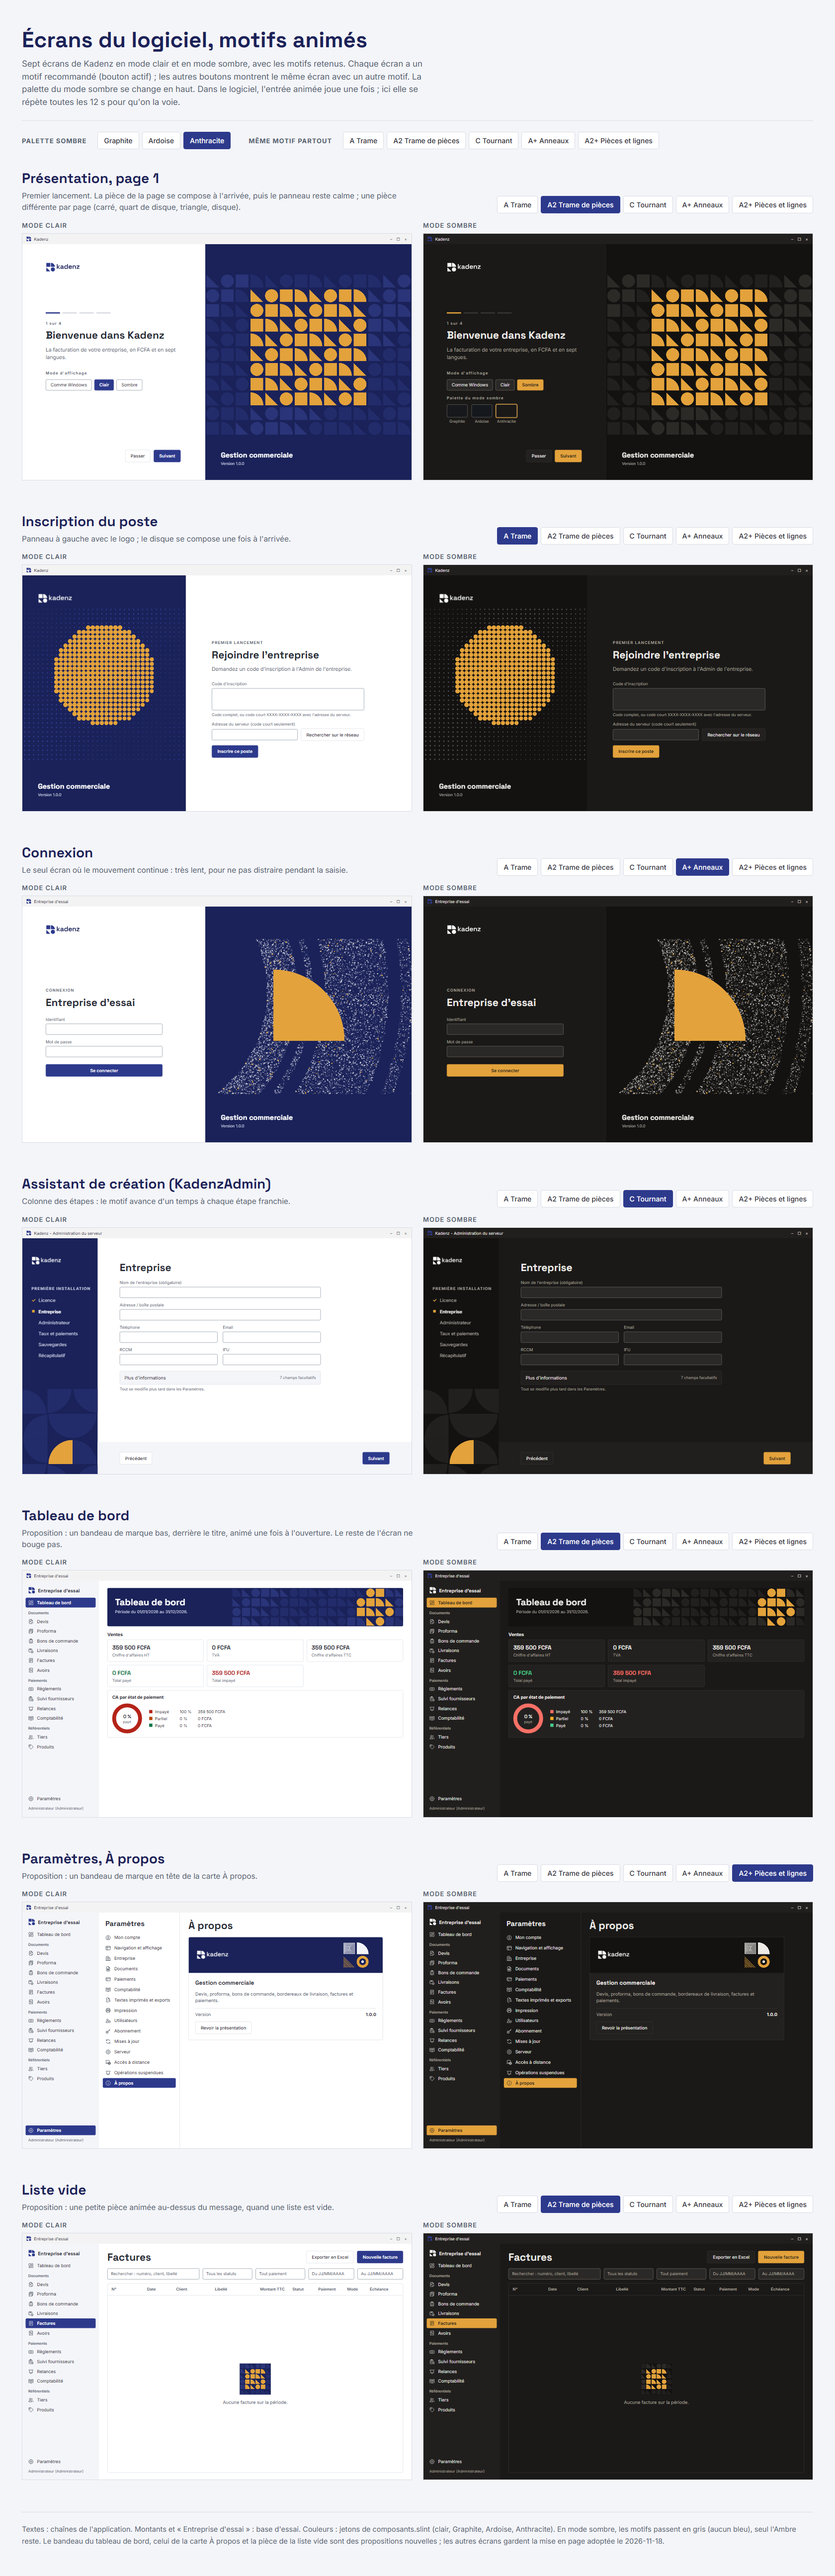
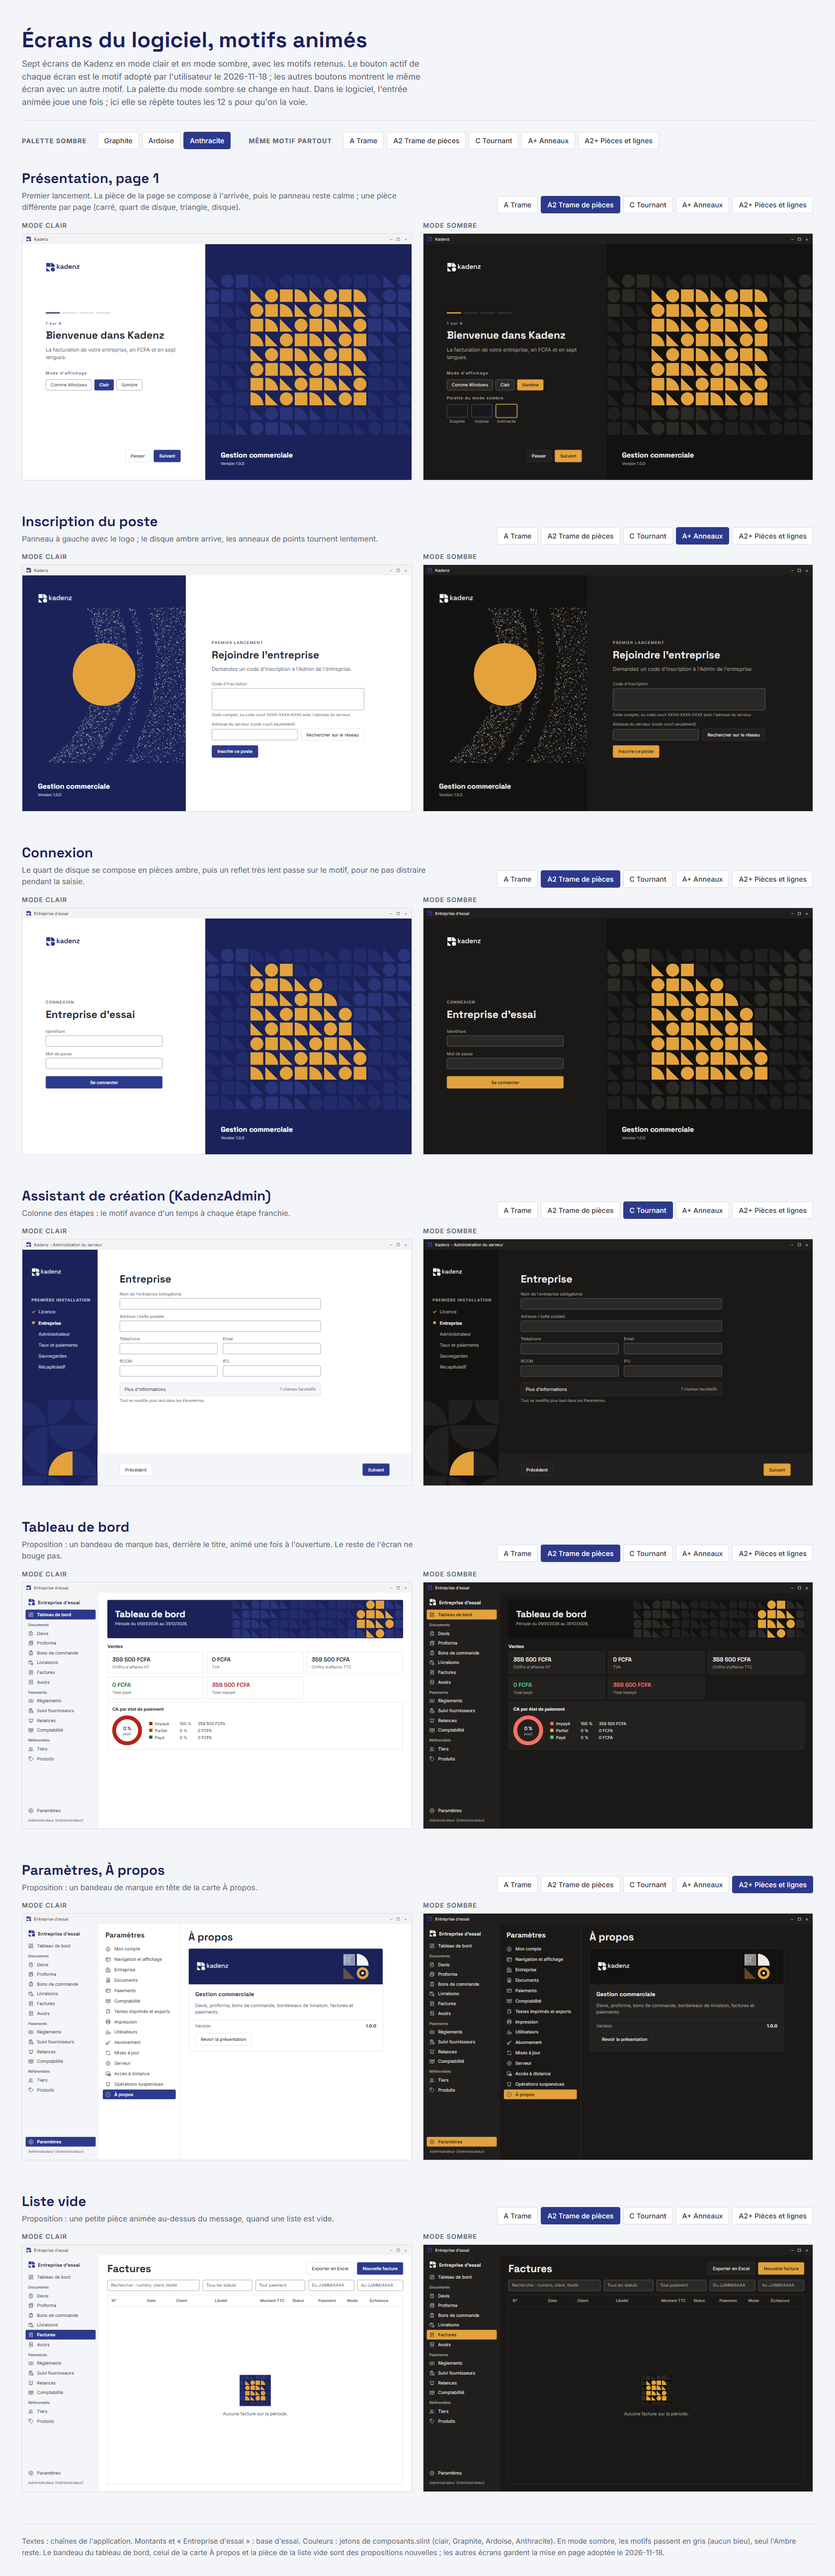
Marque : design des écrans animés adopté
Présentation A2, inscription A+, connexion A2, assistant C, bandeaux A2 et
A2+ au tableau de bord et dans À propos, pièce A2 des listes vides, palette
sombre Anthracite. A+, A2+ et C+ gardés à côté de A, A2 et C.

diff --git a/docs/marque/propositions-2026-11-18-ecrans-animes/index.html b/docs/marque/propositions-2026-11-18-ecrans-animes/index.html
@@ -146,8 +146,8 @@ body[data-palette="2"] .m.sombre { --fond:#1a1918; --lateral:#211f1e; --surface:
 </style></head>
 <body data-palette="2">
 <div class="entete"><div><h1>Écrans du logiciel, motifs animés</h1>
-<p>Sept écrans de Kadenz en mode clair et en mode sombre, avec les motifs retenus. Chaque écran a un motif
-recommandé (bouton actif) ; les autres boutons montrent le même écran avec un autre motif. La palette du mode
+<p>Sept écrans de Kadenz en mode clair et en mode sombre, avec les motifs retenus. Le bouton actif de chaque
+écran est le motif adopté par l'utilisateur le 2026-11-18 ; les autres boutons montrent le même écran avec un autre motif. La palette du mode
 sombre se change en haut. Dans le logiciel, l'entrée animée joue une fois ; ici elle se répète toutes les 12 s
 pour qu'on la voie.</p></div></div>
 <div class="reglages"><b>Palette sombre</b><span class="choix"><button data-palette-choix="0">Graphite</button><button data-palette-choix="1">Ardoise</button><button data-palette-choix="2" class="on">Anthracite</button></span>
@@ -183,8 +183,8 @@ pour qu'on la voie.</p></div></div>
 </div>
 <div class="boutons"><span class="btn">Passer</span><span class="btn prim">Suivant</span></div>
 </div><div class="panneau"><canvas data-piece="carre" data-cadre="panneau"></canvas>
-<div class="pied-panneau"><b>Gestion commerciale</b><small>Version 1.0.0</small></div></div></div></div></div></div></figure></div></section><section class="ecran" data-ecran="inscription"><header><div><h2>Inscription du poste</h2><p>Panneau à gauche avec le logo ; le disque se compose une fois à l'arrivée.</p></div>
-<div class="choix"><button data-motif-choix="A" class="on">A Trame</button><button data-motif-choix="A2" class="">A2 Trame de pièces</button><button data-motif-choix="C" class="">C Tournant</button><button data-motif-choix="A+" class="">A+ Anneaux</button><button data-motif-choix="A2+" class="">A2+ Pièces et lignes</button></div></header>
+<div class="pied-panneau"><b>Gestion commerciale</b><small>Version 1.0.0</small></div></div></div></div></div></div></figure></div></section><section class="ecran" data-ecran="inscription"><header><div><h2>Inscription du poste</h2><p>Panneau à gauche avec le logo ; le disque ambre arrive, les anneaux de points tournent lentement.</p></div>
+<div class="choix"><button data-motif-choix="A" class="">A Trame</button><button data-motif-choix="A2" class="">A2 Trame de pièces</button><button data-motif-choix="C" class="">C Tournant</button><button data-motif-choix="A+" class="on">A+ Anneaux</button><button data-motif-choix="A2+" class="">A2+ Pièces et lignes</button></div></header>
 <div class="duo"><figure><figcaption>Mode clair</figcaption><div class="cadre"><div class="m clair "><div class="barre"><img class="mini" data-logo="sym"><span>Kadenz</span>
 <b class="ctl">&#8211;&#160;&#160;&#9633;&#160;&#160;&#215;</b></div><div class="corps"><div class="rang"><div class="panneau etroit"><img class="logo-panneau" data-logo="logoN"><canvas data-piece="disque" data-cadre="panneau"></canvas>
 <div class="pied-panneau"><b>Gestion commerciale</b><small>Version 1.0.0</small></div></div>
@@ -208,8 +208,8 @@ pour qu'on la voie.</p></div></div>
   <label>Adresse du serveur (code court seulement)</label>
   <div class="ligne"><div class="champ"></div><span class="btn">Rechercher sur le réseau</span></div>
   <span class="btn prim" style="margin-top:14px;align-self:flex-start">Inscrire ce poste</span>
-</div></div></div></div></div></div></figure></div></section><section class="ecran" data-ecran="connexion"><header><div><h2>Connexion</h2><p>Le seul écran où le mouvement continue : très lent, pour ne pas distraire pendant la saisie.</p></div>
-<div class="choix"><button data-motif-choix="A" class="">A Trame</button><button data-motif-choix="A2" class="">A2 Trame de pièces</button><button data-motif-choix="C" class="">C Tournant</button><button data-motif-choix="A+" class="on">A+ Anneaux</button><button data-motif-choix="A2+" class="">A2+ Pièces et lignes</button></div></header>
+</div></div></div></div></div></div></figure></div></section><section class="ecran" data-ecran="connexion"><header><div><h2>Connexion</h2><p>Le quart de disque se compose en pièces ambre, puis un reflet très lent passe sur le motif, pour ne pas distraire pendant la saisie.</p></div>
+<div class="choix"><button data-motif-choix="A" class="">A Trame</button><button data-motif-choix="A2" class="on">A2 Trame de pièces</button><button data-motif-choix="C" class="">C Tournant</button><button data-motif-choix="A+" class="">A+ Anneaux</button><button data-motif-choix="A2+" class="">A2+ Pièces et lignes</button></div></header>
 <div class="duo"><figure><figcaption>Mode clair</figcaption><div class="cadre"><div class="m clair "><div class="barre"><img class="mini" data-logo="sym"><span>Entreprise d'essai</span>
 <b class="ctl">&#8211;&#160;&#160;&#9633;&#160;&#160;&#215;</b></div><div class="corps"><div class="rang"><div class="col-form">
 <img class="logo-col" data-logo="auto">
@@ -319,7 +319,7 @@ des propositions nouvelles ; les autres écrans gardent la mise en page adoptée
 <script>
[2 lines of base64/hex data omitted]
-const DEFAUTS = {"presentation": "A2", "inscription": "A", "connexion": "A+", "assistant": "C", "tableau": "A2", "apropos": "A2+", "vide": "A2"};
+const DEFAUTS = {"presentation": "A2", "inscription": "A+", "connexion": "A2", "assistant": "C", "tableau": "A2", "apropos": "A2+", "vide": "A2"};
 const PI = Math.PI;
 const PIECES = {
   carre: new Path2D("M16 16 L120 16 L120 120 L16 120 Z"),

diff --git a/docs/marque/propositions-2026-11-18-ecrans-animes/generer.py b/docs/marque/propositions-2026-11-18-ecrans-animes/generer.py
@@ -173,8 +173,8 @@ def ecran_vide():
 
 ECRANS = [
     ("presentation", "Présentation, page 1", "Premier lancement. La pièce de la page se compose à l'arrivée, puis le panneau reste calme ; une pièce différente par page (carré, quart de disque, triangle, disque).", "A2", ecran_presentation),
-    ("inscription", "Inscription du poste", "Panneau à gauche avec le logo ; le disque se compose une fois à l'arrivée.", "A", ecran_inscription),
-    ("connexion", "Connexion", "Le seul écran où le mouvement continue : très lent, pour ne pas distraire pendant la saisie.", "A+", ecran_connexion),
+    ("inscription", "Inscription du poste", "Panneau à gauche avec le logo ; le disque ambre arrive, les anneaux de points tournent lentement.", "A+", ecran_inscription),
+    ("connexion", "Connexion", "Le quart de disque se compose en pièces ambre, puis un reflet très lent passe sur le motif, pour ne pas distraire pendant la saisie.", "A2", ecran_connexion),
     ("assistant", "Assistant de création (KadenzAdmin)", "Colonne des étapes : le motif avance d'un temps à chaque étape franchie.", "C", ecran_assistant),
     ("tableau", "Tableau de bord", "Proposition : un bandeau de marque bas, derrière le titre, animé une fois à l'ouverture. Le reste de l'écran ne bouge pas.", "A2", ecran_tableau),
     ("apropos", "Paramètres, À propos", "Proposition : un bandeau de marque en tête de la carte À propos.", "A2+", ecran_apropos),
@@ -573,8 +573,8 @@ def page():
 <title>Kadenz, écrans animés</title><style>{CSS}</style></head>
 <body data-palette="2">
 <div class="entete"><div><h1>Écrans du logiciel, motifs animés</h1>
-<p>Sept écrans de Kadenz en mode clair et en mode sombre, avec les motifs retenus. Chaque écran a un motif
-recommandé (bouton actif) ; les autres boutons montrent le même écran avec un autre motif. La palette du mode
+<p>Sept écrans de Kadenz en mode clair et en mode sombre, avec les motifs retenus. Le bouton actif de chaque
+écran est le motif adopté par l'utilisateur le 2026-11-18 ; les autres boutons montrent le même écran avec un autre motif. La palette du mode
 sombre se change en haut. Dans le logiciel, l'entrée animée joue une fois ; ici elle se répète toutes les 12 s
 pour qu'on la voie.</p></div></div>
 <div class="reglages"><b>Palette sombre</b><span class="choix"><button data-palette-choix="0">Graphite</button><button data-palette-choix="1">Ardoise</button><button data-palette-choix="2" class="on">Anthracite</button></span>

diff --git a/docs/marque/README.md b/docs/marque/README.md
@@ -191,7 +191,21 @@ Trois directions retenues par l'utilisateur le 2026-11-18 parmi six propositions
 | A2 Trame de pièces | La composition de A, faite du motif Quatre pièces : symbole en petites pièces ambre sur le motif ton sur ton ; taille constante, sans fondu ; le motif s'arrête net sous le texte | Pièces en Ambre, comme A |
 | C Tournant | Le motif Tournant en mouvement : les quarts de disque tournent d'un quart de tour au passage d'une onde ; le logo reste sur une zone calme | Aucun |
 
-Écrans du logiciel avec ces motifs, en clair et en sombre (Graphite, Ardoise, Anthracite) : `propositions-2026-11-18-ecrans-animes/` (présentation, inscription, connexion, assistant KadenzAdmin, tableau de bord, À propos, liste vide ; un motif recommandé par écran, les autres au choix). Proposition en attente d'adoption, rien n'est encore implémenté.
+Écrans du logiciel avec ces motifs, en clair et en sombre (Graphite, Ardoise, Anthracite) : `propositions-2026-11-18-ecrans-animes/` (présentation, inscription, connexion, assistant KadenzAdmin, tableau de bord, À propos, liste vide).
+
+Adopté par l'utilisateur le 2026-11-18, à implémenter :
+
+| Écran | Motif |
+|---|---|
+| Présentation (panneau de droite) | A2 Trame de pièces |
+| Inscription du poste (panneau de gauche) | A+ Anneaux |
+| Connexion | A2 Trame de pièces |
+| Assistant KadenzAdmin (colonne des étapes) | C Tournant |
+| Tableau de bord | bandeau A2 derrière le titre |
+| Paramètres, À propos | bandeau A2+ en tête de la carte |
+| Liste vide | petite pièce A2 au-dessus du message |
+
+Palette sombre par défaut : Anthracite. Les versions du deuxième tour sont toutes gardées à côté de celles du premier : A et A+ Anneaux, A2 et A2+ Pièces et lignes, C Tournant (logiciel) et C+ Carrousel (communication hors logiciel : site, réseaux sociaux, salons) (`propositions-2026-11-18-identite-references/`).
 
 ## Modules (proposition)
 

diff --git a/.claude/journal.md b/.claude/journal.md
@@ -686,3 +686,4 @@
 [2026-11-18 06:11:19] Instruction - Identité animée : l'utilisateur retient A Trame, A2 Trame de pièces et C Tournant (B, D, E écartées) ; section Identité animée ajoutée à docs/marque/README.md. Vidéos de référence à déposer dans C:\Users\rachk\Kadenz-videos (hors dépôt, hors OneDrive).
 [2026-11-18 06:25:40] Suggestion - Identité animée, deuxième tour d'après les références de l'utilisateur (4 vidéos sans son, 4 images, dans C:\Users\rachk\Kadenz-videos, hors dépôt) : A+ Anneaux (anneaux de points qui tournent, sphères ; version claire), A2+ Pièces et lignes (pièces pleines ou en faisceaux de lignes, cercles d'accent, mot vertical), C+ Carrousel (six affiches en série qui défilent, chiffres tirés du logiciel). docs/marque/propositions-2026-11-18-identite-references/.
 [2026-11-18 08:10:36] Suggestion - Écrans du logiciel avec les motifs animés retenus, en clair et en sombre (palettes au choix) : présentation (A2), inscription (A), connexion (A+), assistant KadenzAdmin (C), tableau de bord (bandeau A2), À propos (bandeau A2+), liste vide (pièce A2) ; motif changeable par écran. docs/marque/propositions-2026-11-18-ecrans-animes/. En attente d'adoption avant implémentation.
+[2026-11-18 08:28:38] Instruction - Design des écrans adopté par l'utilisateur (questions interactives) : présentation A2, inscription A+, connexion A2, assistant KadenzAdmin C, bandeau A2 au tableau de bord, bandeau A2+ dans À propos, pièce A2 pour les listes vides, palette sombre Anthracite par défaut. Deuxième tour : A+, A2+ et C+ gardés à côté de A, A2 et C (C+ pour la communication hors logiciel). Consigné dans docs/marque/README.md ; implémentation à venir.
